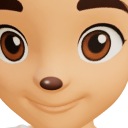
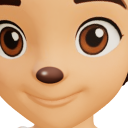
3D-forsøg: lidt større dyrenæse og klovnenæse

diff --git a/3d-forsoeg/index.html b/3d-forsoeg/index.html
@@ -713,8 +713,8 @@ function shapeNose() { const Z = tex && tex.nose; if (!Z) return; const opts = (
     v.set(Z.nrm[j * 3] / (1 + (S[0] - 1) * w), Z.nrm[j * 3 + 1] / (1 + (S[1] - 1) * w), Z.nrm[j * 3 + 2] / (1 + (S[2] - 1) * w)).normalize().toArray(Nm.array, i * 3); }
   A.needsUpdate = true; Nm.needsUpdate = true;
   // (the clown's ball: made the first time, bound to the head bone alone)
-  if (opts.clown && !Z.ball) { const r = .17 * Z.apart, g = new THREE.SphereGeometry(r, 40, 28), cnt = g.attributes.position.count;
-    g.translate(Z.tip[0], Z.tip[1] - .02 * Z.apart, Z.tip[2] + .06 * Z.apart);
+  if (opts.clown && !Z.ball) { const r = .2 * Z.apart, g = new THREE.SphereGeometry(r, 40, 28), cnt = g.attributes.position.count;
+    g.translate(Z.tip[0], Z.tip[1] - .02 * Z.apart, Z.tip[2] + .075 * Z.apart);
     g.setAttribute('skinIndex', new THREE.Uint16BufferAttribute(new Uint16Array(cnt * 4).fill(0).map((_, k) => k % 4 ? 0 : hairBase.head), 4));
     g.setAttribute('skinWeight', new THREE.Float32BufferAttribute(new Float32Array(cnt * 4).map((_, k) => k % 4 ? 0 : 1), 4));
     Z.ball = new THREE.SkinnedMesh(g, new THREE.MeshStandardMaterial({ color: 0xE3212B, roughness: .28, metalness: 0 })); Z.ball.castShadow = true;
@@ -722,7 +722,7 @@ function shapeNose() { const Z = tex && tex.nose; if (!Z) return; const opts = (
   if (Z.ball) Z.ball.visible = !!opts.clown; }
 // (Dyrenæse: a dark oval on the nose's tip, lit as a dome - lightest at its top, with a small shine)
 function drawNose(o) { const Z = tex.nose, P = tex.pynt, opts = (NOSES.find(m => m[0] === noseNow) || [])[2]; if (!Z || !P || !opts || !opts.animal) return;
-  const T = P.texels, cy0 = Z.tipY - .015, rx = .11, ry = .075, darkC = { r: .2, g: .11, b: .09 }, lightC = { r: .55, g: .38, b: .34 };
+  const T = P.texels, cy0 = Z.tipY - .015, rx = .135, ry = .092, darkC = { r: .2, g: .11, b: .09 }, lightC = { r: .55, g: .38, b: .34 };
   for (let j = 0; j < T.length; j += 3) { const X = T[j + 1], Y = T[j + 2], ux = X / rx, uy = (Y - cy0) / ry, r = Math.hypot(ux, uy * (uy < 0 ? 1.15 : 1)); if (r > 1.1) continue;
     const a = Math.max(0, Math.min(1, (1 - r) * ry / .008 + .5)), nz = Math.sqrt(Math.max(0, 1 - r * r)), d = Math.max(0, Math.min(1, .25 + .35 * nz + .35 * uy));
     const shine = .7 * Math.exp(-(((ux + .3) / .2) ** 2 + ((uy - .35) / .18) ** 2)), i = T[j] * 4;
